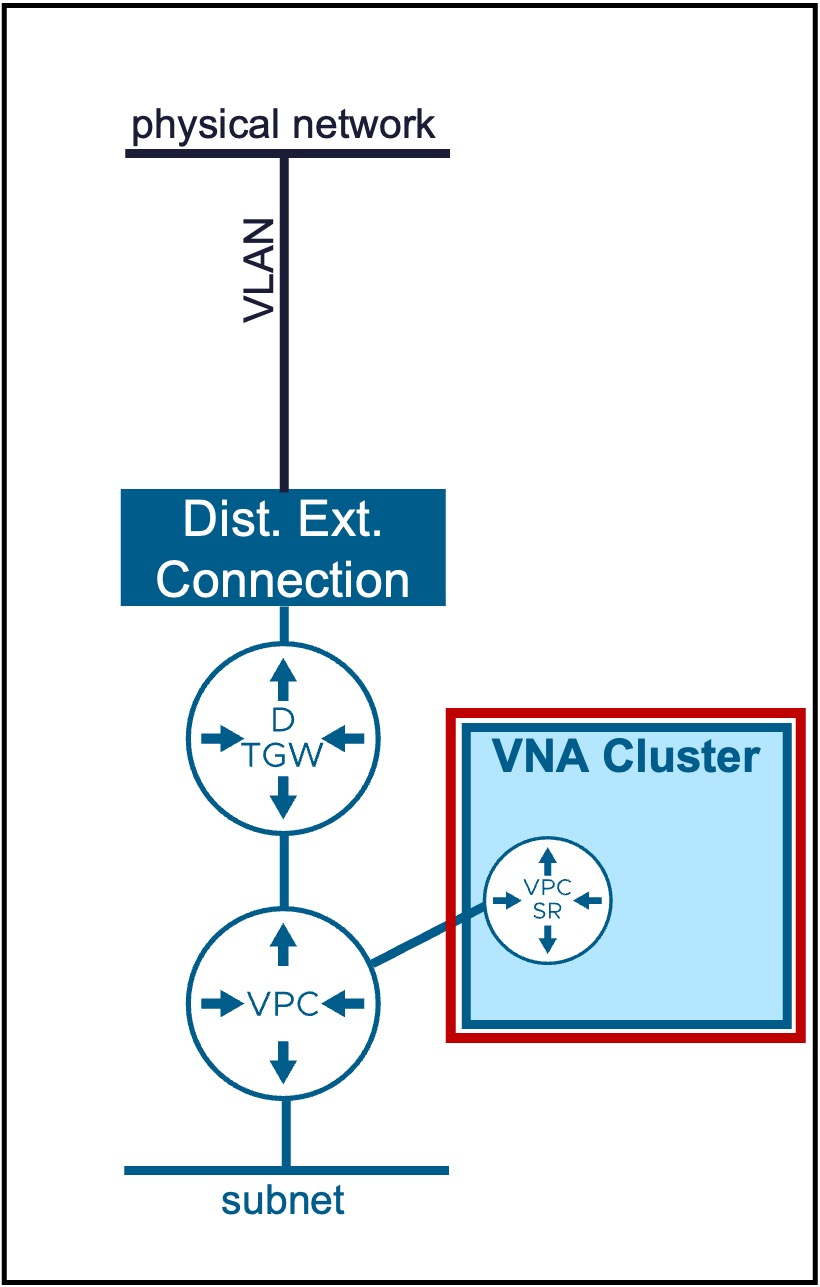
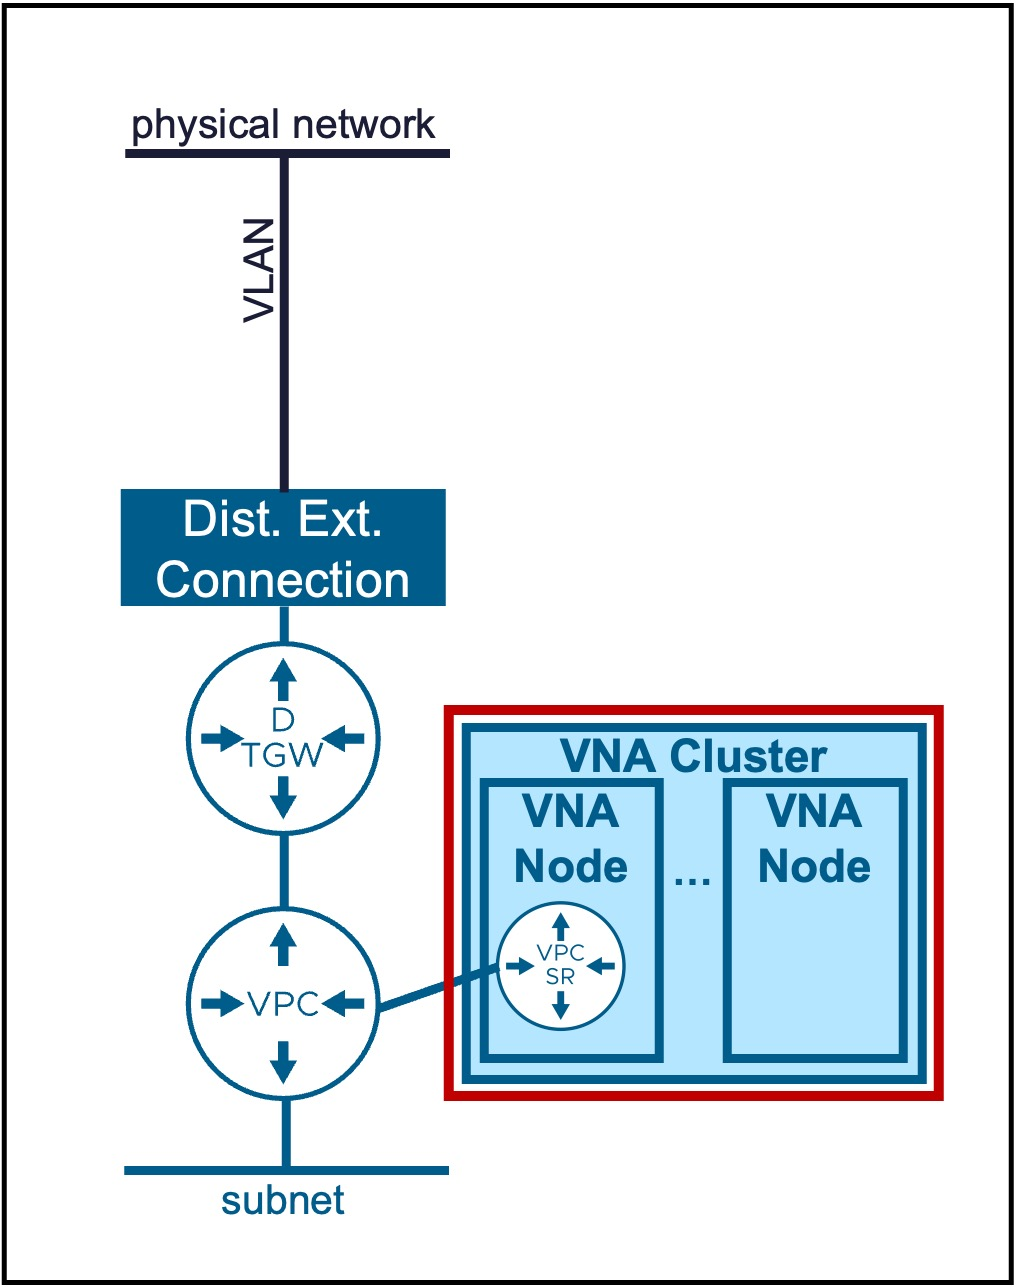
update

Changed region(s): [[0.0915, 0.0, 1.0, 0.9946], [0.0, 0.0, 0.0305, 0.9946], [0.122, 0.9013, 0.1524, 0.9324]]

diff --git a/site/vcenter/2b-vna/index.html b/site/vcenter/2b-vna/index.html
@@ -2130,7 +2130,7 @@
 <div>
 <p>This section describes the procedures for configuring NSX Virtual Network Appliances (VNA) using the vSphere Client.
 <br><br>
-<strong>NSX Virtual Network Appliances (VNA)</strong> provide the centralized network services required <strong>for Distributed Transit Gateway (DTGW)</strong> designs within the VPC architecture.</p>
+<strong>NSX Virtual Network Appliances (VNA Nodes)</strong> provide the centralized network services required <strong>for Distributed Transit Gateway (DTGW)</strong> designs within the VPC architecture.</p>
 </div>
 <div>
 <p><a class="glightbox" data-type="image" data-width="auto" data-height="auto" href="../images/2b-0-VNA.jpg" data-desc-position="bottom"><img alt="vCenter VNA" src="../images/2b-0-VNA.jpg" width="100%"></a></p>
@@ -2139,6 +2139,7 @@
 <hr>
 <h2 id="vna-cluster-vna-nodes">VNA Cluster / VNA Nodes</h2>
 <h3 id="configuration">Configuration</h3>
+<p>VNA Nodes only require 1 interface in a Management VLAN (any subnet with access to the NSX Manager) and a FQDN name.</p>
 <h4 id="step1-create-new-vna-cluster-vna-nodes">Step1. Create new VNA Cluster / VNA Nodes</h4>
 <p><a class="glightbox" data-type="image" data-width="auto" data-height="auto" href="../images/2b-1-Create_VNA.jpg" data-desc-position="bottom"><img alt="vCenter VNA Cluster" src="../images/2b-1-Create_VNA.jpg" style="display: block; margin: 0 auto;" width="80%"></a></p>
 <h4 id="step2-configure-vna-cluster">Step2. Configure VNA Cluster</h4>
@@ -2146,7 +2147,7 @@
 <ul>
 <li><strong>Node Form Factor</strong>:<br>
   Select the appliance size (vCPU / Memory) of the VNA Nodes.<br>
-  This determines the scale and performance limits for the logical routers (VNA Gateways) hosted on the node.</li>
+  This determines the scale and performance limits for the logical routers (VPC-SR Gateways) hosted on the node.</li>
 </ul>
 <h4 id="step3-configure-vna-nodes-placement-and-networking">Step3. Configure VNA Nodes Placement and Networking</h4>
 <p><a class="glightbox" data-type="image" data-width="auto" data-height="auto" href="../images/2b-3a-Configure_VNANode1.jpg" data-desc-position="bottom"><img alt="vCenter VNA Node" src="../images/2b-3a-Configure_VNANode1.jpg" style="display: block; margin: 0 auto;" width="80%"></a></p>

diff --git a/site/vcenter/3b-transit_gateway/index.html b/site/vcenter/3b-transit_gateway/index.html
@@ -2278,7 +2278,7 @@
 <tr>
 <td style="text-align: left;"><a href="#dist-tgw"><strong>Distributed TGW</strong></a></td>
 <td style="text-align: left;">Supports only L2 Fabric. <br> Offers Stateful Network Services (Outbound-NAT and NAT) with VNA Nodes. VPN can also be configured but from NSX.</td>
-<td style="text-align: left;">Routing occurs locally at the ESXi host level (distributed dataplane). Stateful Network Services traffic is redirected through a VNA Gateway in a VNA Cluster.</td>
+<td style="text-align: left;">Routing occurs locally at the ESXi host level (distributed dataplane). Stateful Network Services traffic is redirected through a VPC-SR Gateway in a VNA Cluster.</td>
 </tr>
 </tbody>
 </table>
@@ -2383,7 +2383,7 @@
 <ul>
 <li>
 <p><strong>Virtual Network Appliance Cluster</strong>:<br>
-  Select the VNA Cluster to host the VNA Gateway.<br>
+  Select the VNA Cluster to host the future VPC-SR Gateways.<br>
   For more information on VNA, refer to the <a href="../2b-vna/">VNA</a> page.</p>
 </li>
 <li>

diff --git a/site/vcfa/1a-transit_gateway/index.html b/site/vcfa/1a-transit_gateway/index.html
@@ -2111,7 +2111,7 @@ The steps below are for the VCF-A Tenant to create another VPC Gateway in its Or
 <tr>
 <td style="text-align: left;"><a href="#dist-tgw"><strong>Distributed TGW</strong></a></td>
 <td style="text-align: left;">Supports only L2 Fabric. <br> Offers Stateful Network Services (Outbound-NAT, NAT, and LB) with VNA Nodes.</td>
-<td style="text-align: left;">Routing occurs locally at the ESXi host level (distributed dataplane). Stateful Network Services traffic is redirected through a VNA Gateway in a VNA Cluster.</td>
+<td style="text-align: left;">Routing occurs locally at the ESXi host level (distributed dataplane). Stateful Network Services traffic is redirected through a VPC-SR Gateway in a VNA Cluster.</td>
 </tr>
 </tbody>
 </table>

diff --git a/docs/vcenter/2b-vna.md b/docs/vcenter/2b-vna.md
@@ -8,7 +8,7 @@
 
 This section describes the procedures for configuring NSX Virtual Network Appliances (VNA) using the vSphere Client.
 <br><br>
-**NSX Virtual Network Appliances (VNA)** provide the centralized network services required **for Distributed Transit Gateway (DTGW)** designs within the VPC architecture.
+**NSX Virtual Network Appliances (VNA Nodes)** provide the centralized network services required **for Distributed Transit Gateway (DTGW)** designs within the VPC architecture.
 </div>
 
 
@@ -24,6 +24,8 @@ This section describes the procedures for configuring NSX Virtual Network Applia
 
 ### Configuration
 
+VNA Nodes only require 1 interface in a Management VLAN (any subnet with access to the NSX Manager) and a FQDN name.
+
 #### Step1. Create new VNA Cluster / VNA Nodes
 ![vCenter VNA Cluster](images/2b-1-Create_VNA.jpg){ width="80%" style="display: block; margin: 0 auto;" }
 
@@ -32,7 +34,7 @@ This section describes the procedures for configuring NSX Virtual Network Applia
 
 * **Node Form Factor**:  
   Select the appliance size (vCPU / Memory) of the VNA Nodes.  
-  This determines the scale and performance limits for the logical routers (VNA Gateways) hosted on the node.
+  This determines the scale and performance limits for the logical routers (VPC-SR Gateways) hosted on the node.
 
 #### Step3. Configure VNA Nodes Placement and Networking
 ![vCenter VNA Node](images/2b-3a-Configure_VNANode1.jpg){ width="80%" style="display: block; margin: 0 auto;" }

diff --git a/docs/vcenter/3b-transit_gateway.md b/docs/vcenter/3b-transit_gateway.md
@@ -26,7 +26,7 @@ Different Transit Gateway types are available:
 | Type | Use Case | Routing Logic |
 | :--- | :--- | :--- |
 | [**Centralized TGW**](#cent-tgw) | Supports L2 and L3 Fabric.<br> Offers Stateful Network Services (Outbound-NAT and NAT). VPN can also be configured but from NSX. | Egress traffic is hairpinned through a centralized Tier-0/VRF gateway hosted on an Edge Cluster. |
-| [**Distributed TGW**](#dist-tgw)| Supports only L2 Fabric. <br> Offers Stateful Network Services (Outbound-NAT and NAT) with VNA Nodes. VPN can also be configured but from NSX. | Routing occurs locally at the ESXi host level (distributed dataplane). Stateful Network Services traffic is redirected through a VNA Gateway in a VNA Cluster. |
+| [**Distributed TGW**](#dist-tgw)| Supports only L2 Fabric. <br> Offers Stateful Network Services (Outbound-NAT and NAT) with VNA Nodes. VPN can also be configured but from NSX. | Routing occurs locally at the ESXi host level (distributed dataplane). Stateful Network Services traffic is redirected through a VPC-SR Gateway in a VNA Cluster. |
 
 ![TGW Types](images/3b-0-Transit_Gateway_Types.jpg){: .center style="width:70%" }
 
@@ -126,7 +126,7 @@ Option to offer Network Services NAT, AVI Plugin.
 ![Dist WLD connectivity](images/3b-2d-Configure_VPC_Service.jpg){ width="70%" style="display: block; margin: 0 auto;" }
 
 * **Virtual Network Appliance Cluster**:  
-  Select the VNA Cluster to host the VNA Gateway.  
+  Select the VNA Cluster to host the future VPC-SR Gateways.  
   For more information on VNA, refer to the [VNA](2b-vna.md) page.
 
 * **Default Outbound NAT**  

diff --git a/docs/vcfa/1a-transit_gateway.md b/docs/vcfa/1a-transit_gateway.md
@@ -35,7 +35,7 @@ Different Transit Gateway types are available:
 | Type | Use Case | Routing Logic |
 | :--- | :--- | :--- |
 | [**Centralized TGW**](#cent-tgw) | Supports L2 and L3 Fabric. <br> Offers all Stateful Network Services (Outbound-NAT, NAT, LB, and VPN). | Egress traffic is hairpinned through a centralized Tier-0/VRF gateway hosted on an Edge Cluster. |
-| [**Distributed TGW**](#dist-tgw)| Supports only L2 Fabric. <br> Offers Stateful Network Services (Outbound-NAT, NAT, and LB) with VNA Nodes. | Routing occurs locally at the ESXi host level (distributed dataplane). Stateful Network Services traffic is redirected through a VNA Gateway in a VNA Cluster. |
+| [**Distributed TGW**](#dist-tgw)| Supports only L2 Fabric. <br> Offers Stateful Network Services (Outbound-NAT, NAT, and LB) with VNA Nodes. | Routing occurs locally at the ESXi host level (distributed dataplane). Stateful Network Services traffic is redirected through a VPC-SR Gateway in a VNA Cluster. |
 
 ![TGW Types](images/1a-0-Transit_Gateway_Types.jpg){: .center style="width:70%" }
 